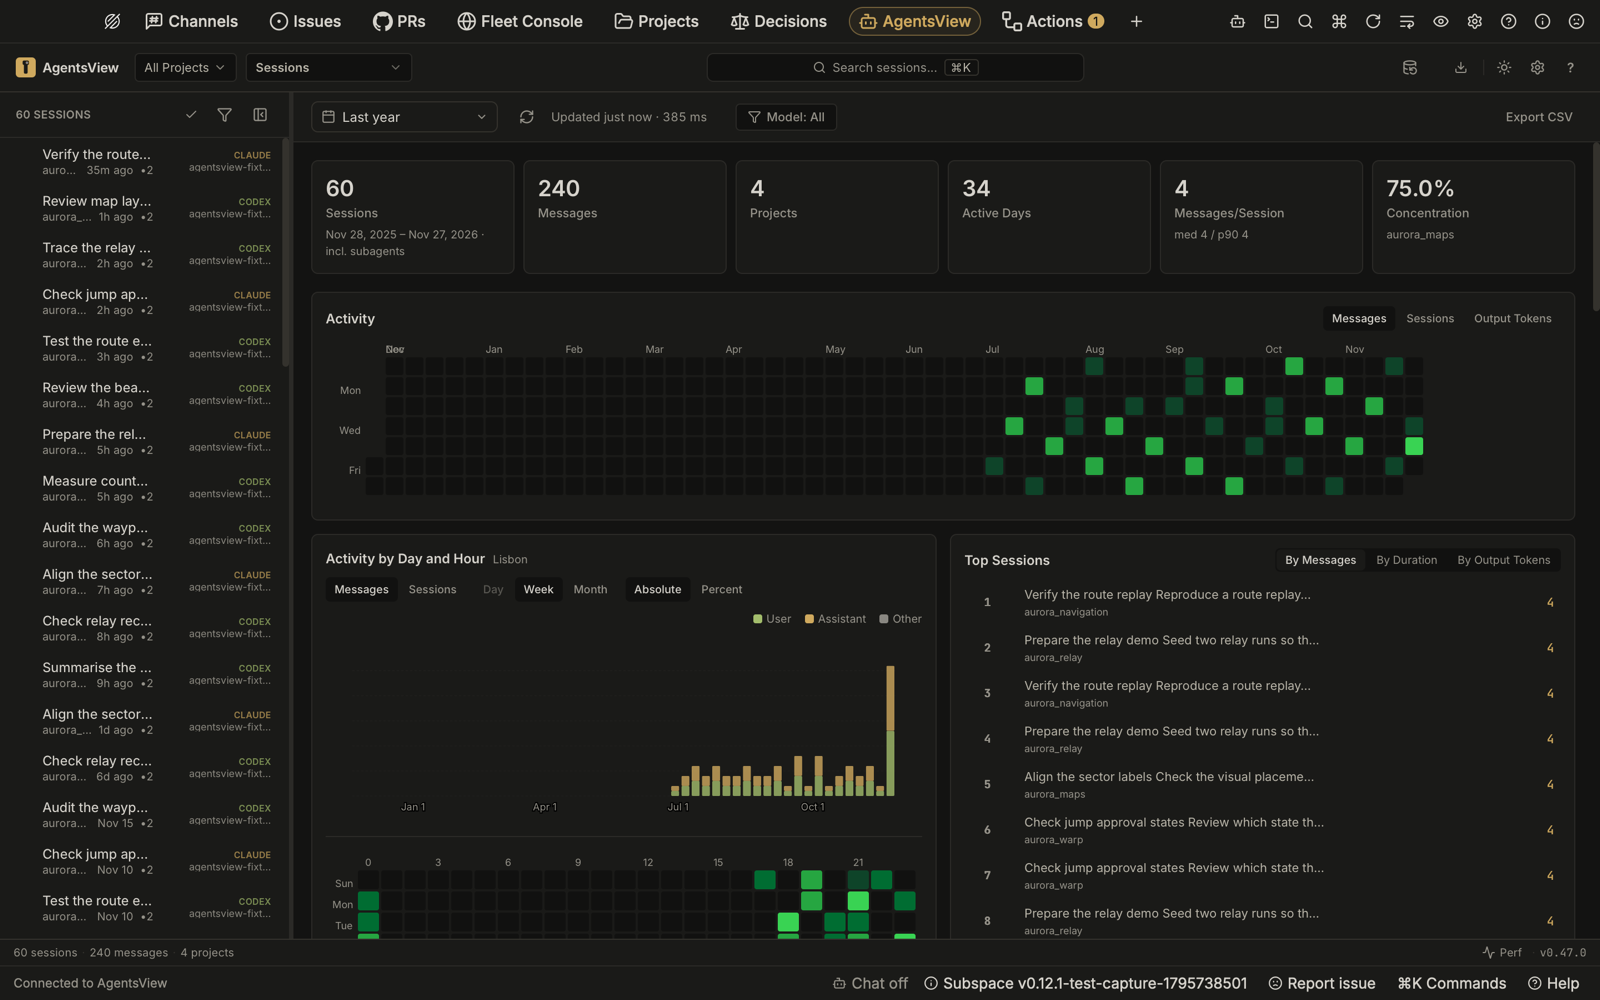
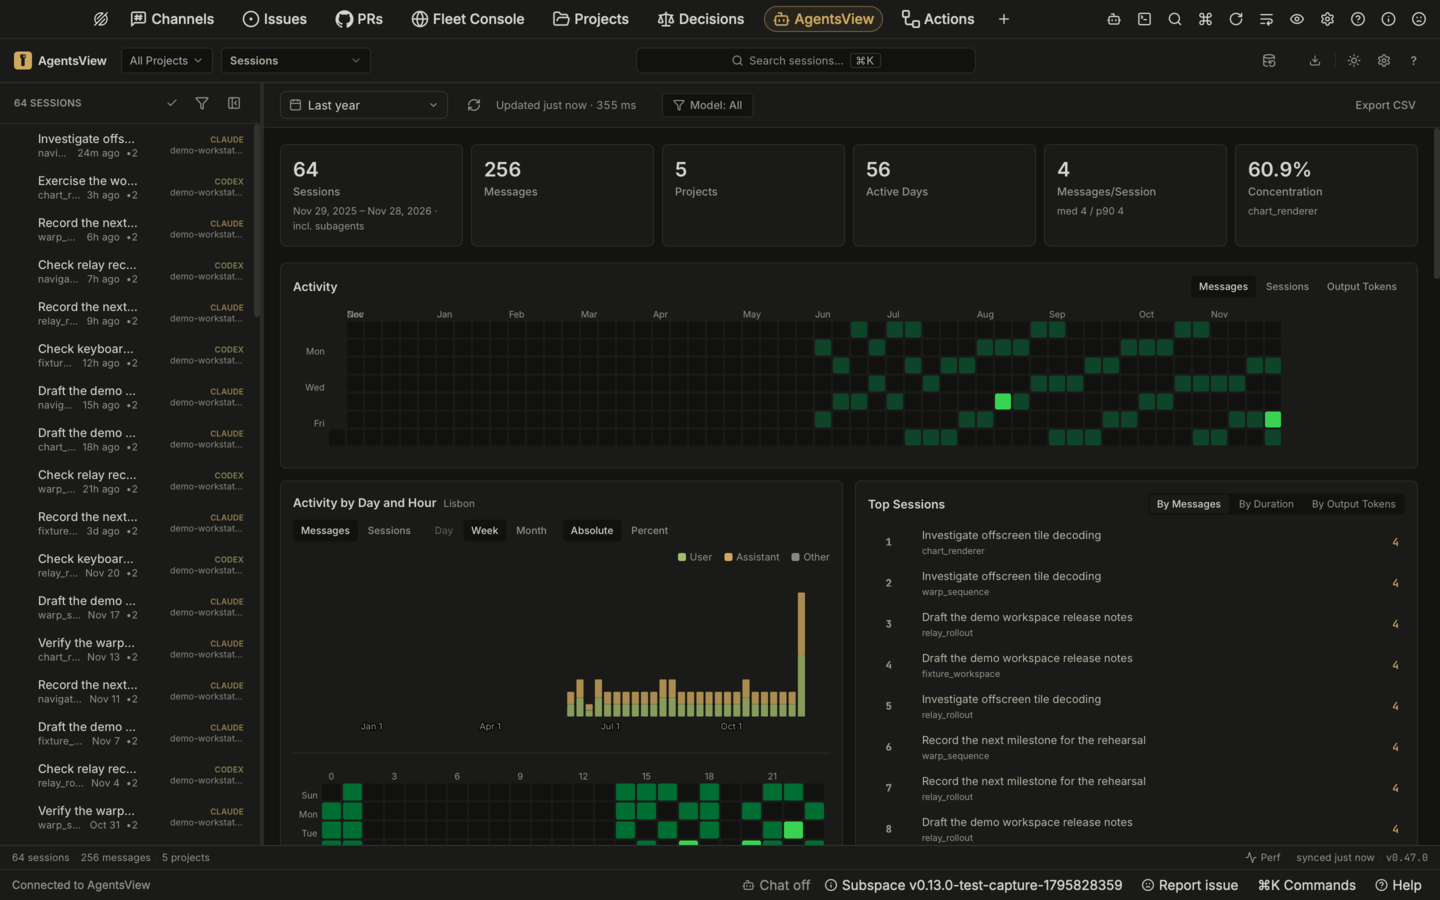
docs(readme): refresh desktop screenshots with demo data (#221)

diff --git a/README.md b/README.md
@@ -298,7 +298,7 @@ credential files that the installer provisions instead.
 
 ## Screenshots
 
-The desktop app in its Twilight Two theme, with fictional fixture data.
+The desktop app in its Twilight Two theme, with fictional demo data.
 Select an image to see it full size.
 
 ### Channels and the tracker
@@ -322,7 +322,7 @@ Select an image to see it full size.
 
 <table>
 <tr>
-<td width="50%" valign="top"><a href="docs/assets/screenshots/desktop-projects-twilight-two.png"><img src="docs/assets/screenshots/desktop-projects-twilight-two.png" width="440" alt="The Projects Space showing a demo project's status, health, lead, dates, timeline, next milestone and latest update"></a><br><b>Projects.</b> Follow a project's status, timeline and latest update.</td>
+<td width="50%" valign="top"><a href="docs/assets/screenshots/desktop-projects-twilight-two.png"><img src="docs/assets/screenshots/desktop-projects-twilight-two.png" width="440" alt="The Projects Space showing a demo project's timeline, next milestone and latest update, with status, health, lead and dates in the inspector"></a><br><b>Projects.</b> Follow a project's timeline and latest update, with its properties in the inspector.</td>
 <td width="50%" valign="top"><a href="docs/assets/screenshots/desktop-agentsview-twilight-two.png"><img src="docs/assets/screenshots/desktop-agentsview-twilight-two.png" width="440" alt="The AgentsView Space showing fictional Claude and Codex sessions, project totals and activity charts in Twilight Two"></a><br><b>AgentsView.</b> Browse agent sessions and review activity across projects.</td>
 </tr>
 </table>
